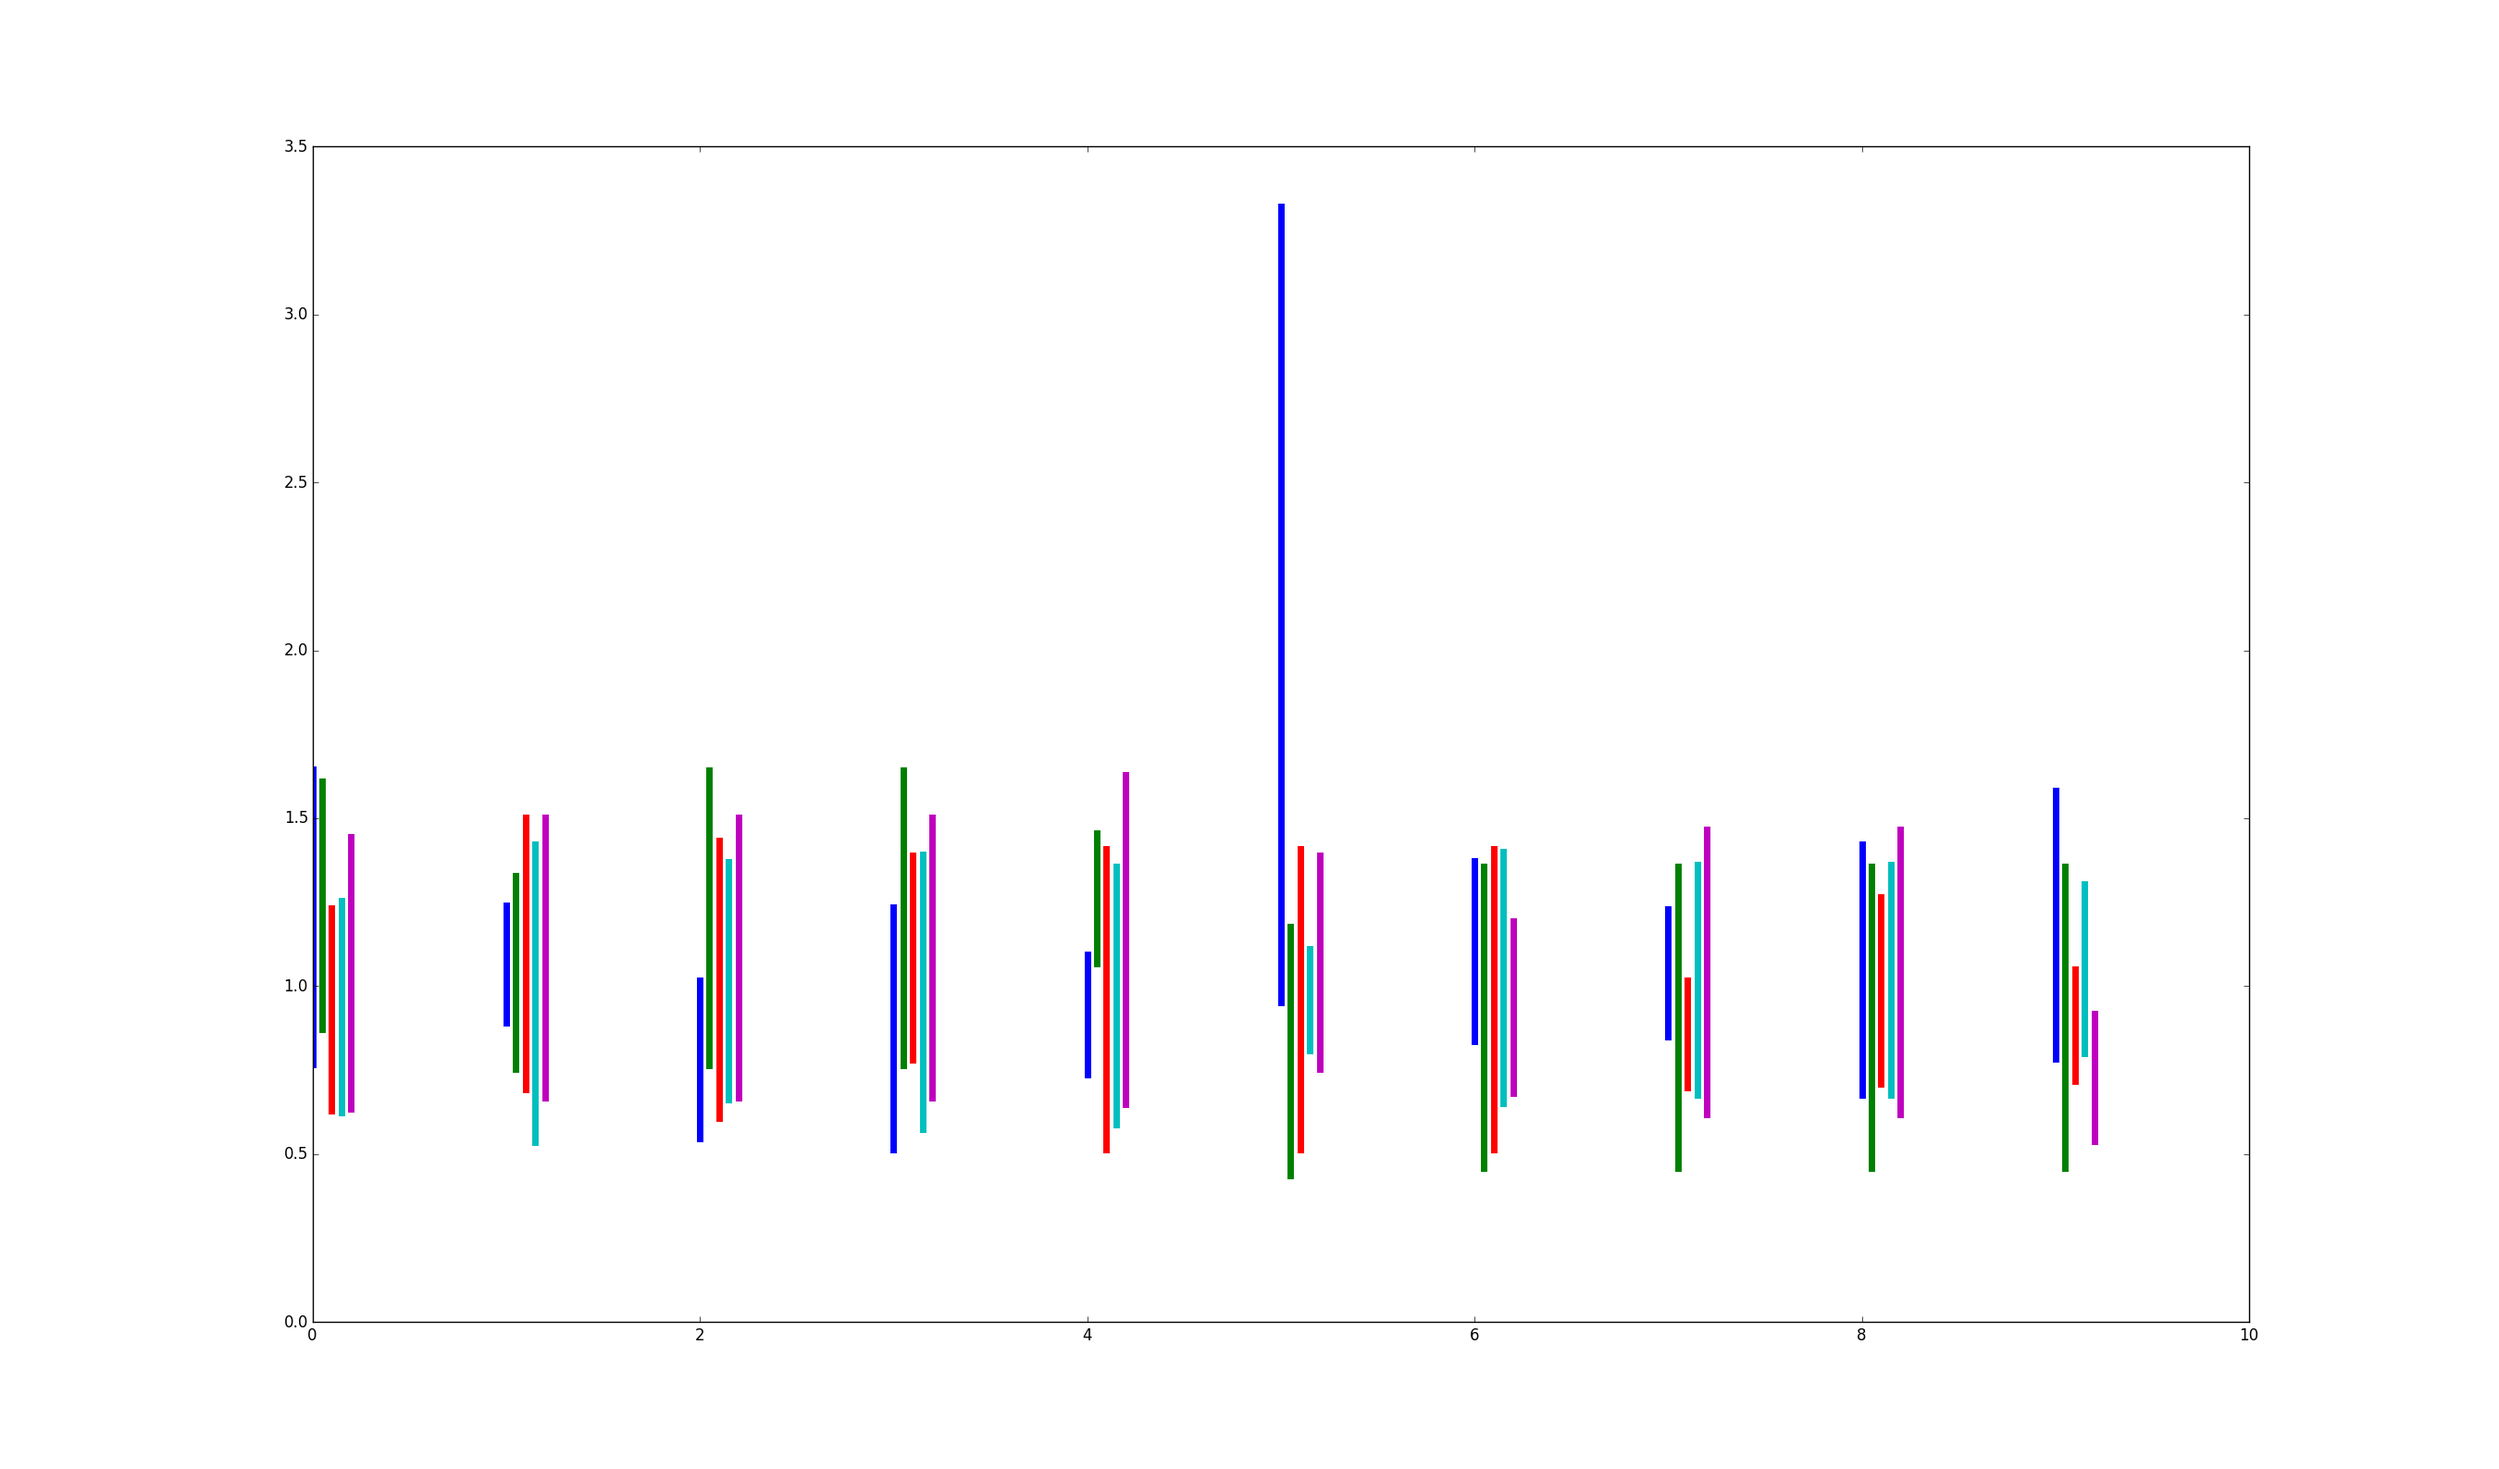
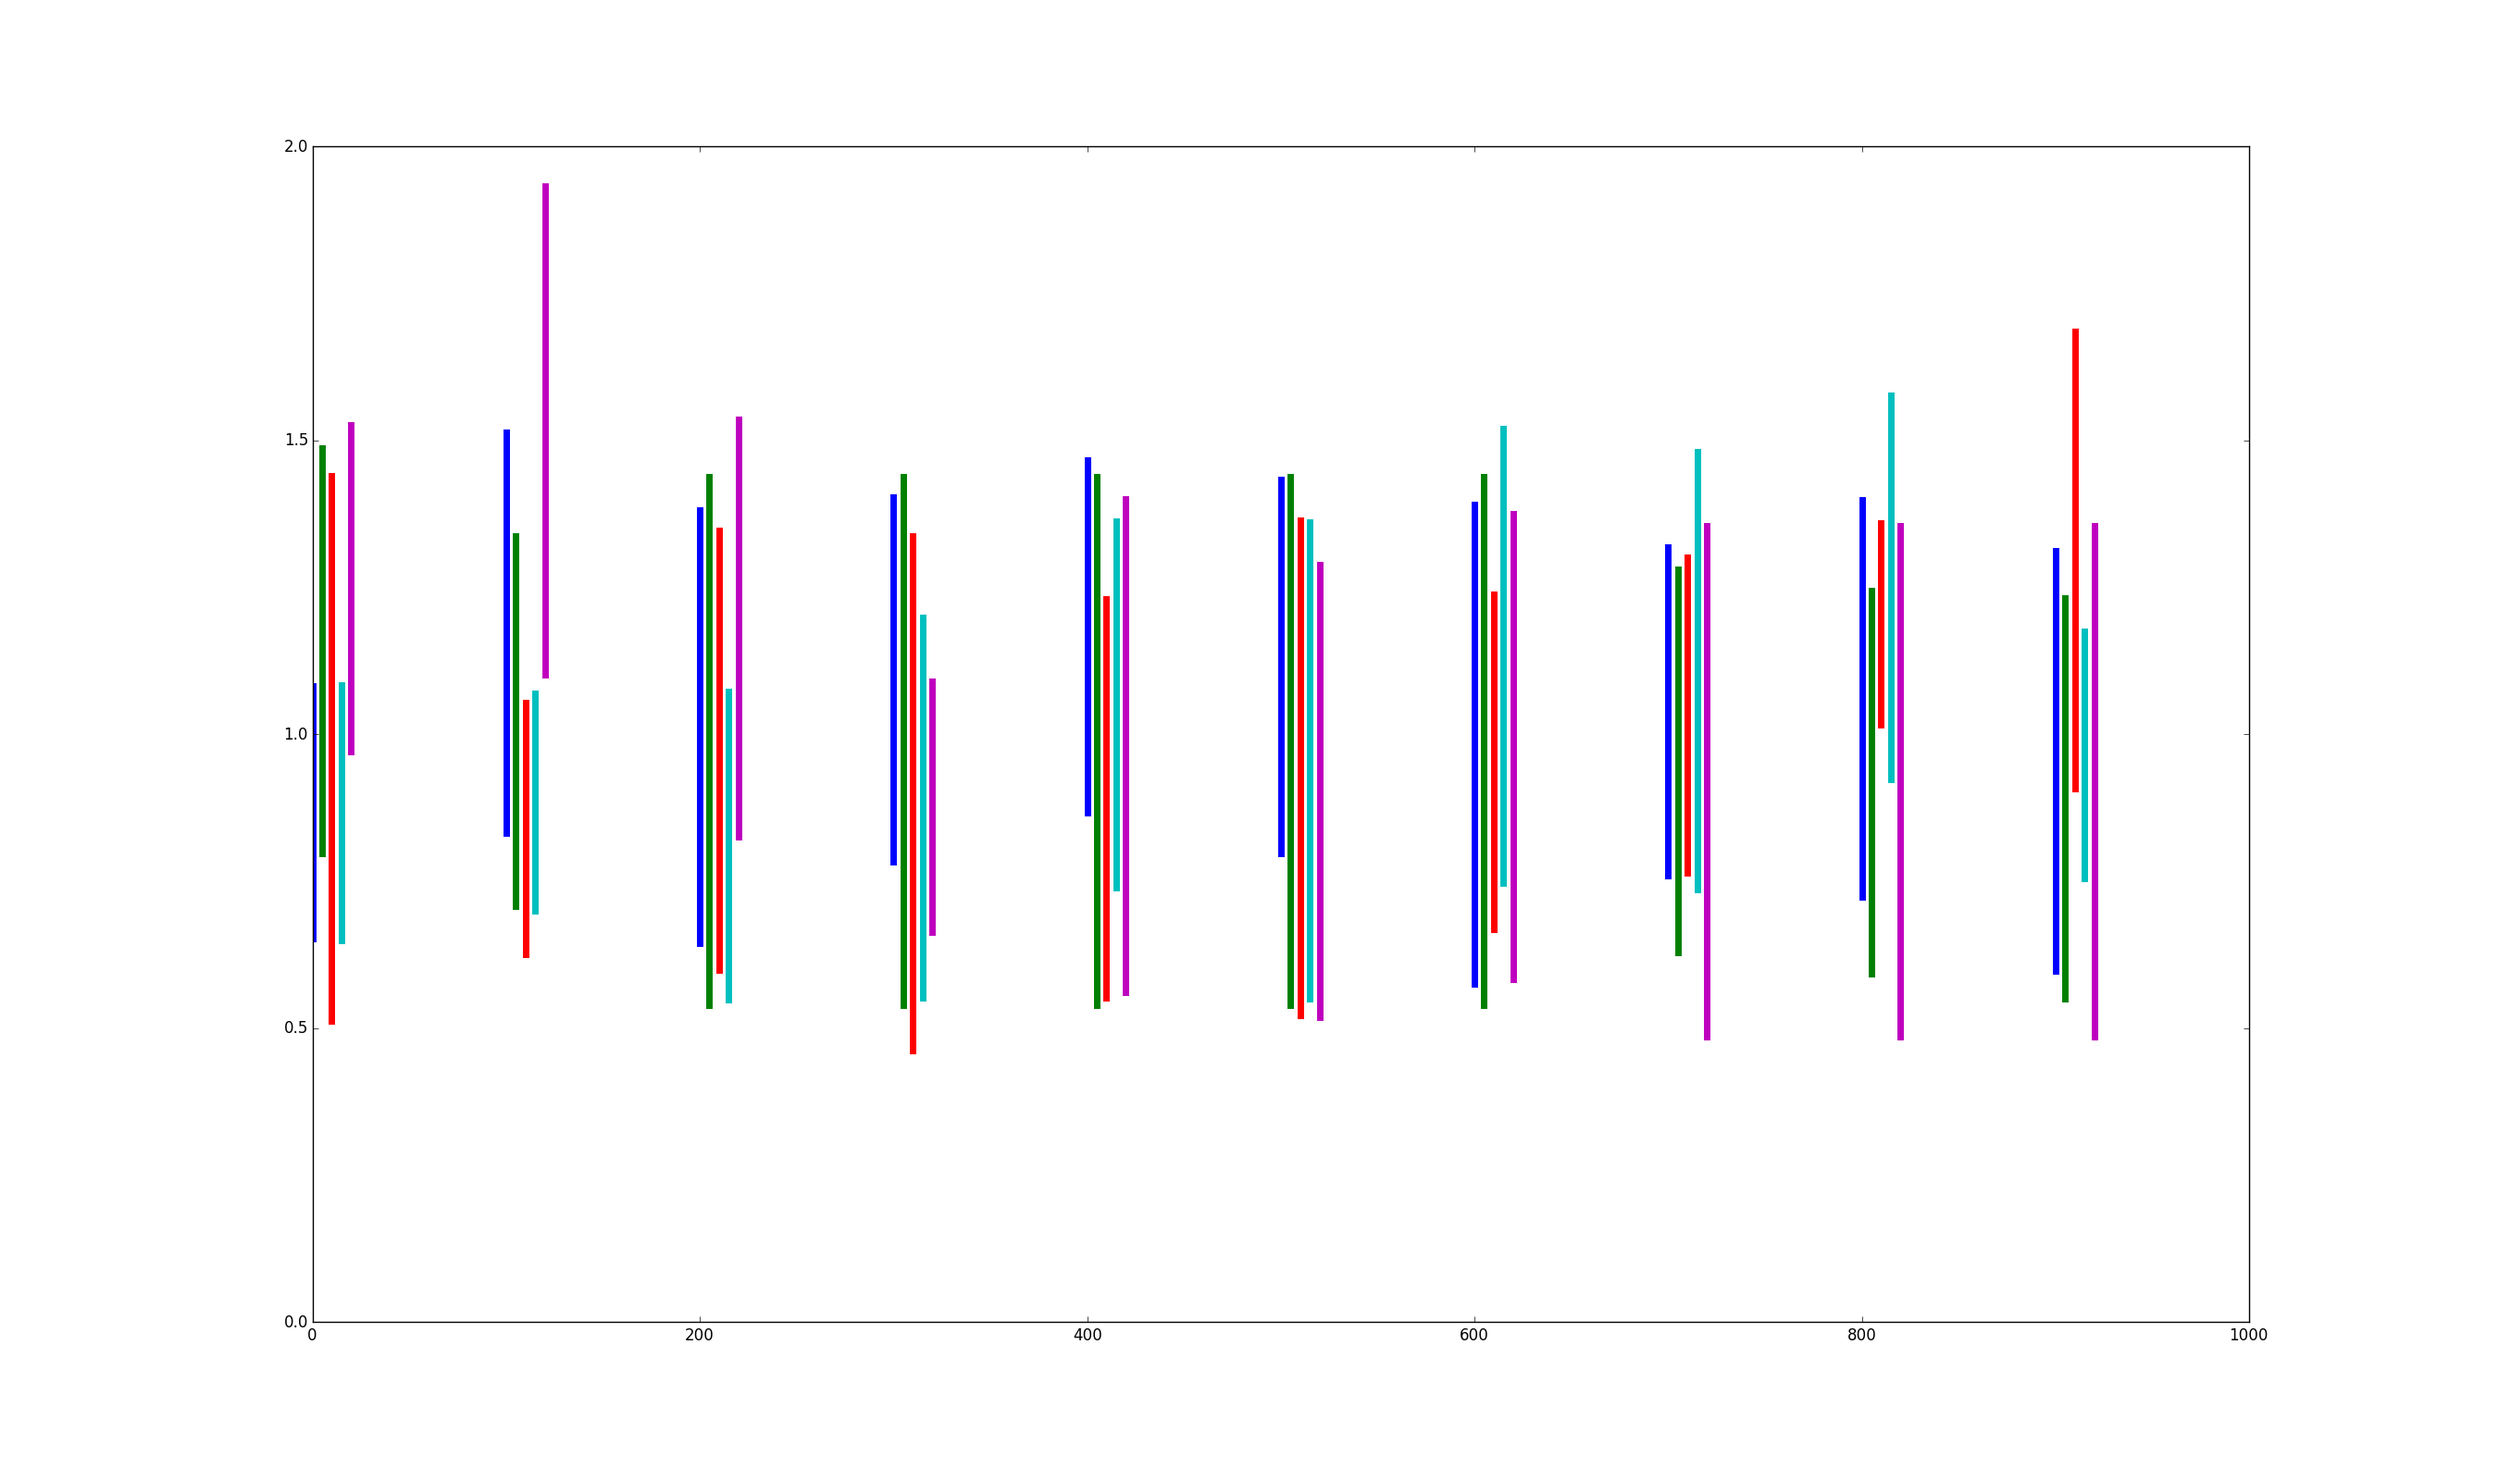
Bug fixes

diff --git a/transit_generate.py b/transit_generate.py
@@ -13,10 +13,11 @@ default_generate_alpha_mean = 0.9
 default_generate_alpha_std = 0.1
 default_generate_beta_mean = 500
 default_generate_beta_std = 20
-default_generate_O_mean = 1000
+default_generate_O_mean_mean = 1000
+default_generate_O_mean_std = 100
 default_generate_O_std = 100
 default_generate_O_cutoff = 300
-default_generate_planet_frac = 1 #0.33
+default_generate_planet_frac = 0.33
 default_generate_planet_bordertime = 10
 default_generate_epsilon_std = 200
 
@@ -29,7 +30,8 @@ class Transit:
                  generate_alpha_std        =default_generate_alpha_std,
                  generate_beta_mean        =default_generate_beta_mean,
                  generate_beta_std         =default_generate_beta_std,
-                 generate_O_mean           =default_generate_O_mean,
+                 generate_O_mean_mean      =default_generate_O_mean_mean,
+                 generate_O_mean_std       =default_generate_O_mean_std,
                  generate_O_std            =default_generate_O_std,
                  generate_O_cutoff         =default_generate_O_cutoff,
                  generate_planet_frac      =default_generate_planet_frac,
@@ -49,7 +51,8 @@ class Transit:
         self.generate_alpha_std         = generate_alpha_std
         self.generate_beta_mean         = generate_beta_mean
         self.generate_beta_std          = generate_beta_std
-        self.generate_O_mean            = generate_O_mean
+        self.generate_O_mean_mean       = generate_O_mean_mean
+        self.generate_O_mean_std        = generate_O_mean_std
         self.generate_O_std             = generate_O_std
         self.generate_O_cutoff          = generate_O_cutoff
         self.generate_planet_frac       = generate_planet_frac
@@ -73,7 +76,8 @@ class Transit:
         msg += "     generate_alpha_std         = " + str(self.generate_alpha_std) + "\n"
         msg += "     generate_beta_mean         = " + str(self.generate_beta_mean) + "\n"
         msg += "     generate_beta_std          = " + str(self.generate_beta_std) + "\n"
-        msg += "     generate_O_mean            = " + str(self.generate_O_mean) + "\n"
+        msg += "     generate_O_mean_mean       = " + str(self.generate_O_mean_mean) + "\n"
+        msg += "     generate_O_mean_std        = " + str(self.generate_O_mean_std) + "\n"
         msg += "     generate_O_std             = " + str(self.generate_O_std) + "\n"
         msg += "     generate_O_cutoff          = " + str(self.generate_O_cutoff) + "\n"
         msg += "     generate_planet_frac       = " + str(self.generate_planet_frac) + "\n"
@@ -102,9 +106,9 @@ def generate(transit=default_transit):
                   (transit.generate_step * transit.generate_points,))
     inpt = []
     outp = []
-    Is = []
     for o in range(transit.generate_stars):
-        O = normal(transit.generate_O_mean,
+        O = normal(normal(transit.generate_O_mean_mean,
+                          transit.generate_O_mean_std),
                    transit.generate_O_std,
                    (transit.generate_step * transit.generate_points,))
         O[O < transit.generate_O_cutoff] = transit.generate_O_cutoff
@@ -120,24 +124,24 @@ def generate(transit=default_transit):
             damped_mask = (span > start)*(span < stop)
             O[damped_mask] *= 1 - transit.generate_planet_frac
             for x in range(0, 2*transit.generate_planet_bordertime):
-                i = start - x
+                i = start + x - 2*transit.generate_planet_bordertime + 1
                 if i in span:
                     O[i] *= (1
                            - transit.generate_planet_frac * (1/pi
                                                            * arccos((transit.generate_planet_bordertime
                                                                    - x) / transit.generate_planet_bordertime)
-                                                           - (1 / (2*pi))
+                                                           - (1 / (pi*transit.generate_planet_bordertime)**2)
                                                            * (transit.generate_planet_bordertime - x)
                                                            * sqrt((2*transit.generate_planet_bordertime
                                                                  - x) * x)))
             for x in range(0, 2*transit.generate_planet_bordertime):
-                i = stop + x
+                i = stop + 2*transit.generate_planet_bordertime - x - 1
                 if i in span:
                     O[i] *= (1
                            - transit.generate_planet_frac * (1/pi
                                                            * arccos((transit.generate_planet_bordertime
                                                                    - x) / transit.generate_planet_bordertime)
-                                                           - (1 / (2*pi))
+                                                           - (1 / (pi*transit.generate_planet_bordertime)**2)
                                                            * (transit.generate_planet_bordertime - x)
                                                            * sqrt((2*transit.generate_planet_bordertime
                                                                  - x) * x)))
@@ -148,7 +152,6 @@ def generate(transit=default_transit):
         epsilon[-epsilon > O] = 0
         I = alpha * (O + epsilon + beta)
         I /= average(I)
-        Is.append(I)
         partitioning = compartmentalize(I)[0]
         for num, point in enumerate(partitioning[:-1]):
             next_point = partitioning[num + 1]
@@ -161,4 +164,4 @@ def generate(transit=default_transit):
                     start = point
                 for i in range(start, next_point, transit.generate_step):
                     inpt += [maximum, minimum]
-    return (inpt, outp, Is)
+    return (inpt, outp)

diff --git a/test_transit.py b/test_transit.py
@@ -10,13 +10,11 @@ def visualize_one():
     Author: Xander
     """
     colors = ["b", "g", "r", "c", "m"]
-    data, out, Is = generate()
-    for j in range(1):
+    data, out = generate()
+    for j in range(5):
         for i in range(10):
             plot([100*i + 5*j, 100*i + 5*j], [data[20*j + 2*i], data[20*j + 2*i + 1]], colors[j], linewidth=5)
-    for j in range(1):
-        I = Is[j]
-        plot(I, colors[j])
+    ylim(ymin=0)
     show()
     print out
     
